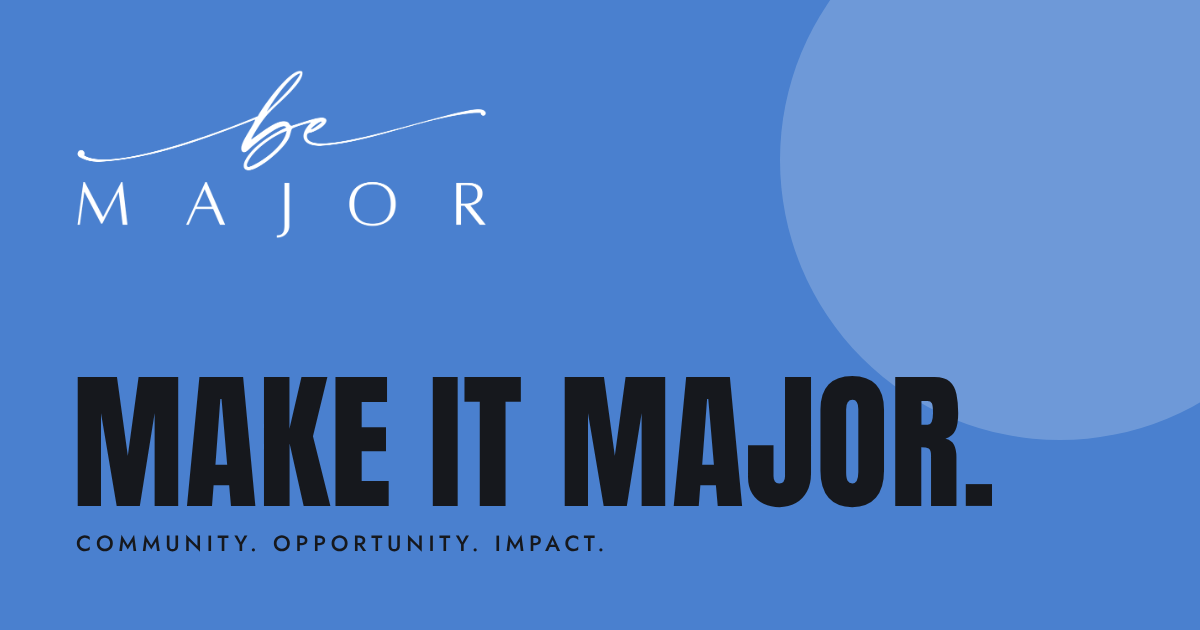
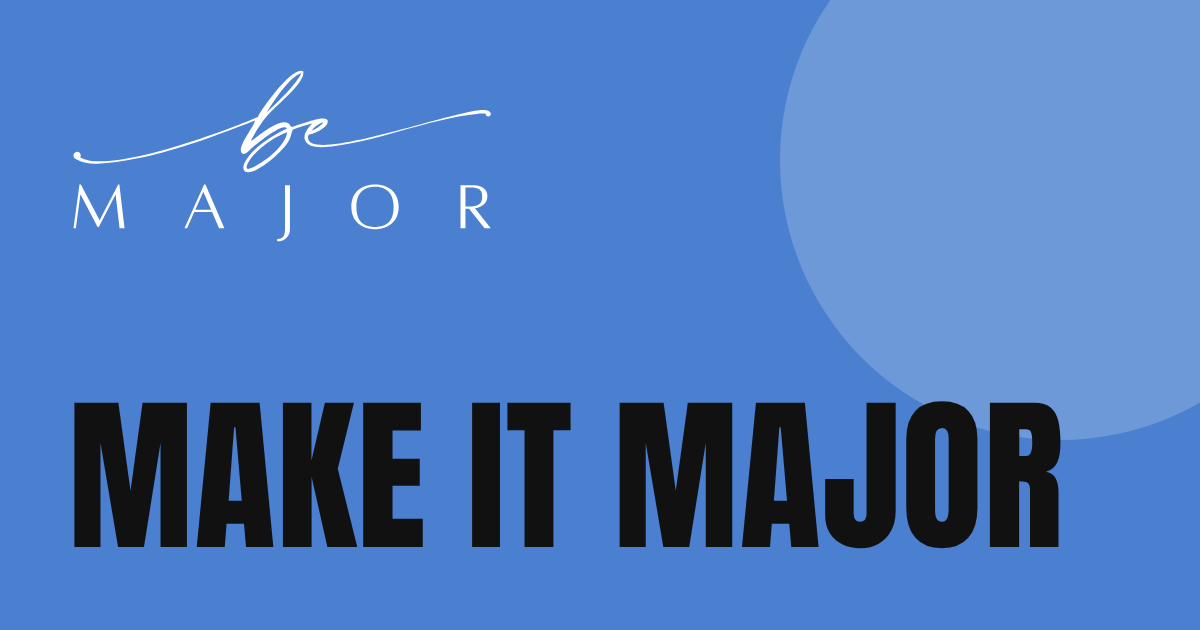
Visual updates from Brae's review
Hero: smaller logo, headline aligned to the logo's left edge, sized to
viewport height so the logo always has room, words in #111111; hero
grows instead of clipping on short screens. Display type one notch
looser (line-height 1). Section labels 12px to 16px. Marquee smaller,
white on black. Signup button: Keep Me Posted. Corner tab: Join Us only.
Footer: tagline without period as a low-opacity silhouette, supporting
line removed, Instagram and LinkedIn icons, legal row in caps.
Share image updated to match.

Claude-Session: https://claude.ai/code/session_01SuC8X7D7SbMb3Ypae7t2j5

diff --git a/components/footer.tsx b/components/footer.tsx
@@ -1,30 +1,25 @@
 import { Logo } from "@/components/logo";
-import { CONTACT_EMAIL, INSTAGRAM } from "@/config/site";
-import { brand, footer, ui } from "@/content/site";
+import { SocialIcons } from "@/components/social-icons";
+import { CONTACT_EMAIL } from "@/config/site";
+import { brand, footer } from "@/content/site";
 
 export function Footer() {
   return (
     <footer className="bg-[var(--color-ink)] px-5 pt-20 pb-40 text-[var(--color-white)] md:px-12 md:pb-28">
       <div className="grid gap-12 md:grid-cols-12">
-        <div className="md:col-span-6">
+        <div className="md:col-span-7">
           <Logo className="h-auto w-48 md:w-64" />
-          <p className="t-display mt-10 text-6xl md:text-8xl">{brand.tagline}</p>
-          <p className="t-label mt-4 text-xs">{brand.supporting}</p>
+          {/* Tagline as a quiet silhouette behind the footer content. */}
+          <p className="t-display mt-10 text-6xl opacity-15 md:text-9xl">{brand.tagline}</p>
         </div>
-        <ul className="grid content-end gap-3 text-lg md:col-span-4 md:col-start-9">
-          <li>
-            <a href={INSTAGRAM.url} rel="noopener" target="_blank" className="hover:underline">
-              {ui.instagram} @{INSTAGRAM.handle}
-            </a>
-          </li>
-          <li>
-            <a href={`mailto:${CONTACT_EMAIL}`} className="hover:underline">
-              {CONTACT_EMAIL}
-            </a>
-          </li>
-        </ul>
+        <div className="grid content-end gap-5 md:col-span-4 md:col-start-9">
+          <SocialIcons />
+          <a href={`mailto:${CONTACT_EMAIL}`} className="text-lg hover:underline">
+            {CONTACT_EMAIL}
+          </a>
+        </div>
       </div>
-      <div className="mt-16 flex flex-wrap gap-x-8 gap-y-3 border-t border-[var(--color-white)]/20 pt-6 text-sm">
+      <div className="t-label mt-16 flex flex-wrap gap-x-8 gap-y-3 border-t border-[var(--color-white)]/20 pt-6 text-[11px]">
         <a href={footer.privacy.href} className="hover:underline">
           {footer.privacy.label}
         </a>

diff --git a/components/hero.tsx b/components/hero.tsx
@@ -42,7 +42,7 @@ export function Hero() {
   const word = hero.words[shown];
   const field = fieldFor(shown);
   const prevField = fieldFor((shown - 1 + N) % N);
-  const ink = video ? "text-[var(--color-white)]" : "text-[var(--color-ink)]";
+  const ink = video ? "text-[var(--color-white)]" : "text-[var(--color-black)]";
 
   return (
     <section
@@ -50,8 +50,8 @@ export function Hero() {
       ref={ref}
       aria-label={hero.accessible}
       data-paused={!active || paused || undefined}
-      className="grain relative isolate flex min-h-[600px] flex-col justify-between overflow-hidden"
-      style={{ height: "100svh", background: video ? "var(--color-ink)" : `var(--color-${prevField})` }}
+      className="grain relative isolate flex min-h-[max(600px,100svh)] flex-col justify-between gap-10 overflow-hidden"
+      style={{ background: video ? "var(--color-ink)" : `var(--color-${prevField})` }}
     >
       {video ? (
         <HeroVideo playing={active && !paused} />
@@ -71,12 +71,15 @@ export function Hero() {
       )}
 
       <div className="px-5 pt-[calc(var(--header-h)+var(--frame)+8px)] md:px-12">
-        <LogoIntro className={`w-[min(80vw,560px)] ${ink}`} />
+        <LogoIntro className={`w-[min(68vw,460px)] ${ink}`} />
       </div>
 
       <div className="px-5 pb-[calc(var(--frame)+72px)] md:px-12 md:pb-[calc(var(--frame)+48px)]">
         <h1 className="sr-only">{hero.accessible}</h1>
-        <p aria-hidden className={`t-display text-[clamp(4rem,19vw,15rem)] ${ink}`}>
+        {/* Size follows the shorter of width and height so the logo always has
+            room above; the negative indent cancels Anton's left side bearing
+            so the letters line up with the logo's left edge. */}
+        <p aria-hidden className={`t-display -ml-[0.035em] text-[clamp(4rem,min(19vw,24svh),15rem)] ${ink}`}>
           <span className="block">{hero.lead}</span>
           <span className="block overflow-hidden pb-[0.04em]">
             <span key={`word-${shown}`} className={`block ${started ? "word-rise" : ""}`}>

diff --git a/components/social-icons.tsx b/components/social-icons.tsx
@@ -1,0 +1,52 @@
+import { INSTAGRAM, LINKEDIN } from "@/config/site";
+import { ui } from "@/content/site";
+
+// Simple line icons drawn from primitives, in currentColor.
+const common = {
+  viewBox: "0 0 24 24",
+  fill: "none",
+  stroke: "currentColor",
+  strokeWidth: 1.8,
+  strokeLinecap: "round" as const,
+  strokeLinejoin: "round" as const,
+  "aria-hidden": true,
+  className: "size-7",
+};
+
+function InstagramIcon() {
+  return (
+    <svg {...common}>
+      <rect x="3" y="3" width="18" height="18" rx="5" />
+      <circle cx="12" cy="12" r="4" />
+      <circle cx="17.3" cy="6.7" r="0.6" fill="currentColor" />
+    </svg>
+  );
+}
+
+function LinkedInIcon() {
+  return (
+    <svg {...common}>
+      <rect x="3" y="3" width="18" height="18" rx="3" />
+      <circle cx="8" cy="8" r="0.6" fill="currentColor" />
+      <path d="M8 11v6M12 17v-6M12 13.5a2.5 2.5 0 0 1 5 0V17" />
+    </svg>
+  );
+}
+
+export function SocialIcons({ className = "" }: { className?: string }) {
+  const link = "inline-flex rounded-full p-1 opacity-90 transition-opacity hover:opacity-100";
+  return (
+    <ul className={`flex items-center gap-4 ${className}`}>
+      <li>
+        <a href={INSTAGRAM.url} target="_blank" rel="noopener" aria-label={ui.instagram} className={link}>
+          <InstagramIcon />
+        </a>
+      </li>
+      <li>
+        <a href={LINKEDIN.url} target="_blank" rel="noopener" aria-label={ui.linkedin} className={link}>
+          <LinkedInIcon />
+        </a>
+      </li>
+    </ul>
+  );
+}

diff --git a/components/marquee.tsx b/components/marquee.tsx
@@ -10,15 +10,15 @@ export function Marquee({ items }: { items: string[] }) {
   const row = (dupe: boolean) => (
     <ul aria-hidden={dupe || undefined} className={`flex shrink-0 ${dupe ? "marquee__dupe" : ""}`}>
       {[...items, ...items].map((item, i) => (
-        <li key={i} className="t-display flex items-center px-6 text-[clamp(3rem,9vw,8rem)] md:px-10">
+        <li key={i} className="t-display flex items-center px-5 text-[clamp(1.75rem,4.5vw,4rem)] md:px-8">
           {item}
-          <span aria-hidden className="ml-12 inline-block size-[0.18em] rounded-full bg-current md:ml-20" />
+          <span aria-hidden className="ml-10 inline-block size-[0.18em] rounded-full bg-current md:ml-16" />
         </li>
       ))}
     </ul>
   );
   return (
-    <div ref={ref} data-paused={!active || undefined} className="marquee bg-[var(--color-blue)] py-6 text-[var(--color-white)] md:py-8">
+    <div ref={ref} data-paused={!active || undefined} className="marquee bg-[var(--color-black)] py-4 text-[var(--color-white)] md:py-5">
       <div className="marquee__track">
         {row(false)}
         {row(true)}

diff --git a/content/site.ts b/content/site.ts
@@ -23,7 +23,7 @@ export const copyText = (c: Copy) => (typeof c === "string" ? c : c.text);
 
 export const brand = {
   name: "Be Major",
-  tagline: "Make it major.",
+  tagline: "Make it major",
   supporting: "Community. Opportunity. Impact.",
   parent: "BRAE Media LLC",
   copyright: "© 2026 Be Major. An initiative of BRAE Media LLC.",
@@ -45,6 +45,7 @@ export const ui = {
   status: "Status",
   emailUs: "Email us",
   instagram: "Instagram",
+  linkedin: "LinkedIn",
 };
 
 export const nav = [
@@ -57,7 +58,6 @@ export const nav = [
 // Fixed corner tab, bottom-right.
 export const cornerTab = {
   join: { label: "Join Us", href: "#join" },
-  partner: { label: "Partner With Us" },
 };
 
 export const hero = {
@@ -186,7 +186,7 @@ export const join = {
       optIn: "Yes, send me Be Major updates. I can unsubscribe anytime.",
       honeypot: "Leave this field empty",
     },
-    submit: "Sign up",
+    submit: "Keep Me Posted",
     sending: "Sending…",
     success: "You're in. Watch your inbox for what's next.",
     errors: {

diff --git a/components/frame.tsx b/components/frame.tsx
@@ -1,9 +1,7 @@
-import { CONTACT_EMAIL } from "@/config/site";
 import { cornerTab } from "@/content/site";
 
-// Fixed white viewport frame plus the diagonal corner tab (bottom-right).
-// On phones the tab carries only "Join Us"; Partner With Us lives in the
-// Join section and footer.
+// Fixed white viewport frame plus the diagonal corner tab (bottom-right)
+// carrying the Join Us CTA.
 export function Frame() {
   return (
     <>
@@ -12,9 +10,6 @@ export function Frame() {
         <div className="corner-tab__links t-label text-[11px] md:text-xs">
           <a href={cornerTab.join.href} className="hover:text-[var(--color-blue-deep)]">
             {cornerTab.join.label}
-          </a>
-          <a href={`mailto:${CONTACT_EMAIL}`} className="corner-tab__partner hover:text-[var(--color-blue-deep)]">
-            {cornerTab.partner.label}
           </a>
         </div>
       </nav>

diff --git a/app/page.tsx b/app/page.tsx
@@ -8,7 +8,7 @@ import { Mission } from "@/components/sections/mission";
 import { Pillars } from "@/components/sections/pillars";
 import { Programs } from "@/components/sections/programs";
 import { Vision } from "@/components/sections/vision";
-import { CONTACT_EMAIL, INSTAGRAM, SITE_URL } from "@/config/site";
+import { CONTACT_EMAIL, INSTAGRAM, LINKEDIN, SITE_URL } from "@/config/site";
 import { brand, seo, ui } from "@/content/site";
 
 // Organization only, never an NGO type (brand language rule).
@@ -21,7 +21,7 @@ const jsonLd = {
   slogan: brand.tagline,
   description: seo.description,
   email: CONTACT_EMAIL,
-  sameAs: [INSTAGRAM.url],
+  sameAs: [INSTAGRAM.url, LINKEDIN.url],
   parentOrganization: { "@type": "Organization", name: brand.parent },
 };
 

diff --git a/components/sections/about.tsx b/components/sections/about.tsx
@@ -6,7 +6,7 @@ export function About() {
   return (
     <section id="about" aria-labelledby="about-label" className="border-t border-[var(--color-ink)]/15 px-5 py-24 md:px-12 md:py-32">
       <div className="grid gap-8 md:grid-cols-12">
-        <h2 id="about-label" className="t-label text-xs text-[var(--color-periwinkle-deep)] md:col-span-3">
+        <h2 id="about-label" className="t-label text-base text-[var(--color-periwinkle-deep)] md:col-span-3">
           {about.label}
         </h2>
         <Reveal className="grid gap-6 md:col-span-8 md:col-start-5 md:gap-8">

diff --git a/components/sections/mission.tsx b/components/sections/mission.tsx
@@ -8,7 +8,7 @@ export function Mission() {
     <section id="mission" aria-labelledby="mission-label" className="bg-[var(--color-grey)]">
       <div className="grid gap-14 px-5 py-24 md:grid-cols-12 md:px-12 md:py-32">
         <Reveal className="md:col-span-6">
-          <h2 id="mission-label" className="t-label text-xs text-[var(--color-teal-deep)]">
+          <h2 id="mission-label" className="t-label text-base text-[var(--color-teal-deep)]">
             {mission.label}
           </h2>
           <p className="mt-6 text-2xl leading-snug font-light md:text-3xl">

diff --git a/components/sections/join.tsx b/components/sections/join.tsx
@@ -9,7 +9,7 @@ export function Join() {
   return (
     <section id="join" aria-labelledby="join-label" className="bg-[var(--color-grey)] px-3 py-20 md:px-8 md:py-28">
       <div className="px-2 md:px-4">
-        <h2 id="join-label" className="t-label text-xs text-[var(--color-blue-deep)]">
+        <h2 id="join-label" className="t-label text-base text-[var(--color-blue-deep)]">
           {join.label}
         </h2>
         <SplitLines text={join.headline} className="t-display mt-6 max-w-[16ch] text-[clamp(3rem,8vw,7.5rem)]" />

diff --git a/components/sections/vision.tsx b/components/sections/vision.tsx
@@ -4,7 +4,7 @@ import { vision } from "@/content/site";
 export function Vision() {
   return (
     <section id="vision" aria-labelledby="vision-label" className="px-5 py-24 md:px-12 md:py-40">
-      <h2 id="vision-label" className="t-label text-xs text-[var(--color-coral-deep)]">
+      <h2 id="vision-label" className="t-label text-base text-[var(--color-coral-deep)]">
         {vision.label}
       </h2>
       <SplitLines text={vision.text} className="t-display mt-6 max-w-[20ch] text-[clamp(2.75rem,7.6vw,7.5rem)]" />

diff --git a/app/globals.css b/app/globals.css
@@ -40,7 +40,7 @@ body {
   font-family: var(--font-anton), "Arial Narrow", sans-serif;
   font-weight: 400;
   letter-spacing: 0.005em;
-  line-height: 0.9;
+  line-height: 1;
   text-transform: uppercase;
 }
 .t-label {
@@ -85,16 +85,10 @@ body {
   gap: 8px;
   white-space: nowrap;
 }
-.corner-tab__partner {
-  display: none;
-}
 @media (min-width: 768px) {
   .corner-tab {
-    width: 230px;
-    height: 230px;
-  }
-  .corner-tab__partner {
-    display: inline;
+    width: 190px;
+    height: 190px;
   }
 }
 
